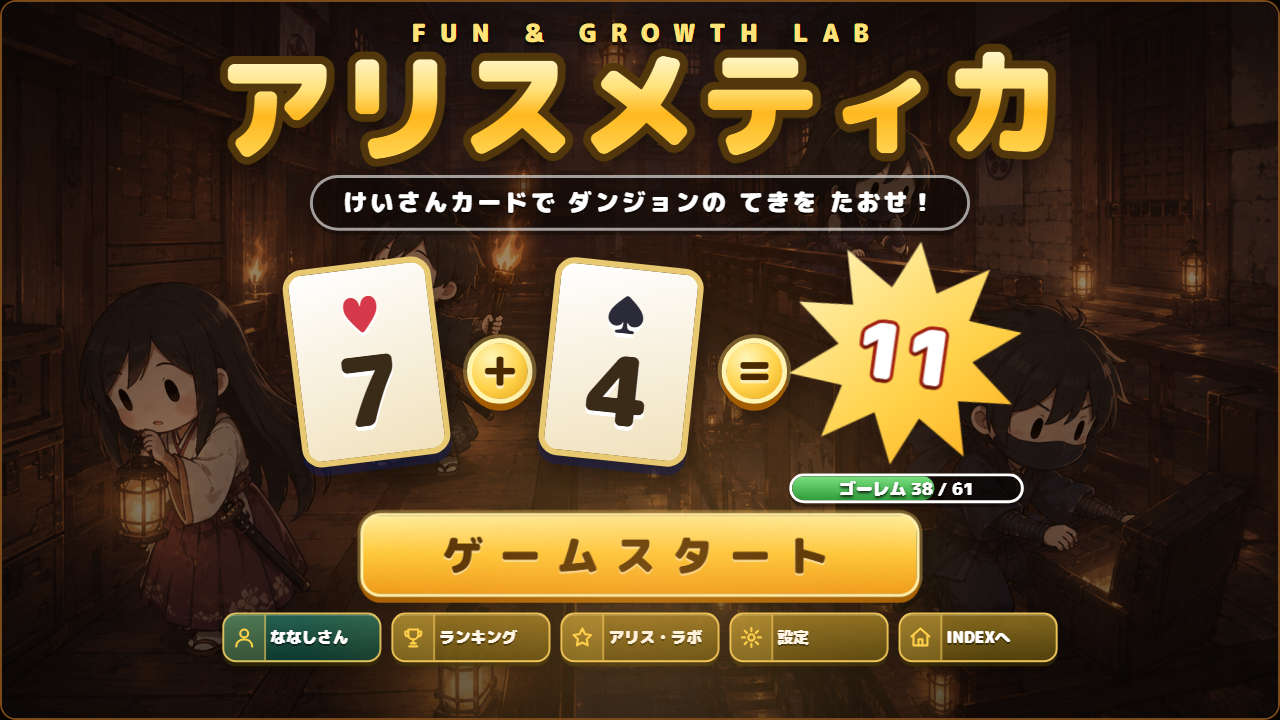
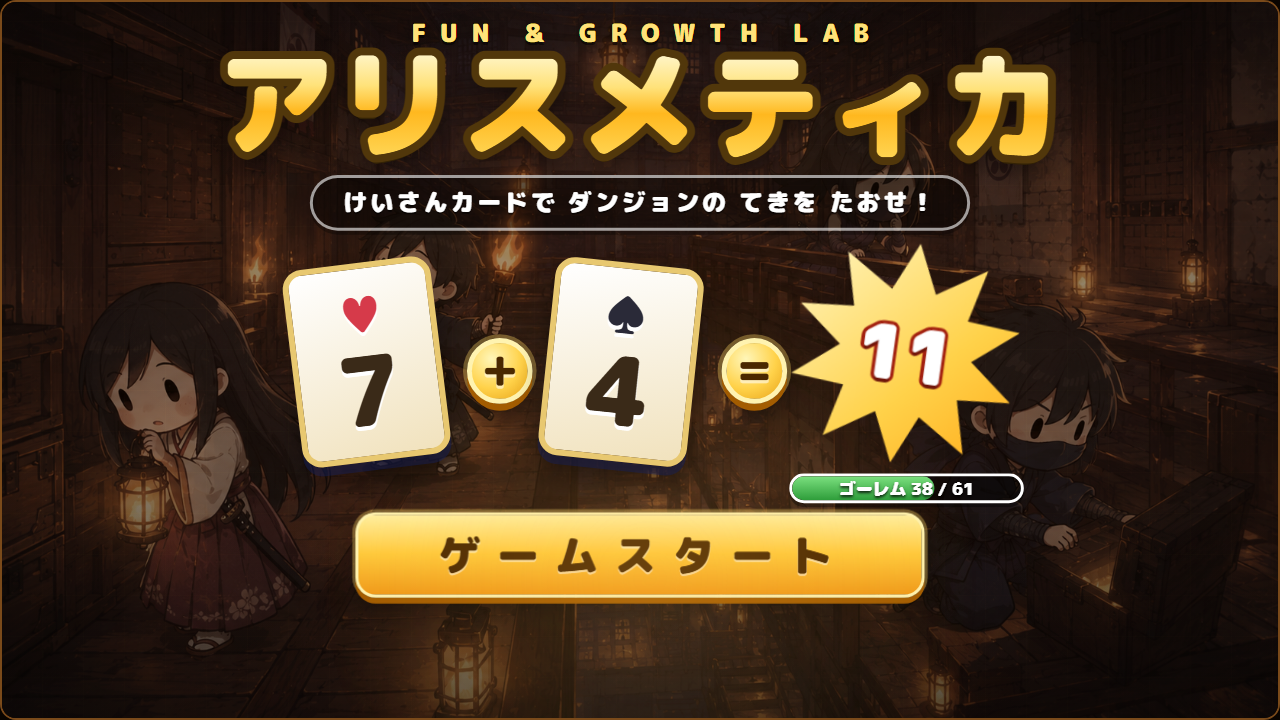
INDEXのサムネ: 下の小さなボタン列を消して、題名と主役の絵を見やすく

diff --git a/index.html b/index.html
@@ -27,7 +27,7 @@
     <meta name="apple-mobile-web-app-title" content="FG Lab">
     <meta property="og:title" content="Fun & Growth Lab | 学び×遊びの実験室">
     <meta property="og:description" content="登録不要・広告なし！算数や社会を楽しく学べる無料ゲームサイト。">
-    <meta property="og:image" content="https://fun-growth-lab.github.io/math-games/images/Math_Braves_addition.png?v=20261120">
+    <meta property="og:image" content="https://fun-growth-lab.github.io/math-games/images/Math_Braves_addition.png?v=20261130">
     <meta name="twitter:card" content="summary_large_image">
 
     <link rel="preconnect" href="https://fonts.googleapis.com">
@@ -1036,7 +1036,7 @@
                 <span class="mini-tag" data-i18n="tag_gr1">1年生〜</span>
             </div>
             <a href="ColorCross/ColorCross.html" class="media-container">
-                <img src="images/ColorCross.png?v=20261120" alt="カラークロス">
+                <img src="images/ColorCross.png?v=20261130" alt="カラークロス">
             </a>
             <div class="start-btn-area">
                 <a href="ColorCross/ColorCross.html" class="play-btn">ゲームスタート ▶</a>
@@ -1061,7 +1061,7 @@
                 <span class="mini-tag" data-i18n="tag_gr1">1年生〜</span>
             </div>
             <a href="TriSquare/TriSquare.html" class="media-container">
-                <img src="images/TriSquare.png?v=20261120" alt="トライスクエア">
+                <img src="images/TriSquare.png?v=20261130" alt="トライスクエア">
             </a>
             <div class="start-btn-area">
                 <a href="TriSquare/TriSquare.html" class="play-btn">ゲームスタート ▶</a>
@@ -1089,7 +1089,7 @@
                 <span class="mini-tag" data-i18n="tag_gr3">3年生〜</span>
             </div>
             <a href="HitofudeMeikyuu/index.html" class="media-container">
-                <img src="images/HitofudeMeikyuu.png?v=20261120" alt="一筆迷宮">
+                <img src="images/HitofudeMeikyuu.png?v=20261130" alt="一筆迷宮">
             </a>
             <div class="start-btn-area">
                 <a href="HitofudeMeikyuu/index.html" class="play-btn">ゲームスタート ▶</a>
@@ -1112,7 +1112,7 @@
                 <span class="mini-tag" data-i18n="tag_indev">開発中</span>
             </div>
             <a href="Iriscraft/index.html" class="media-container">
-                <img src="images/Iriscraft.png?v=20261120" alt="Iriscraft">
+                <img src="images/Iriscraft.png?v=20261130" alt="Iriscraft">
             </a>
             <div class="start-btn-area">
                 <a href="Iriscraft/index.html" class="play-btn">ゲームスタート ▶</a>
@@ -1141,7 +1141,7 @@
                 <span class="mini-tag" data-i18n="tag_gr2">2年生〜</span>
             </div>
             <a href="Arithmetica/index.html" class="media-container">
-                <img src="images/Arithmetica.png?v=20261120" alt="アリスメティカ">
+                <img src="images/Arithmetica.png?v=20261130" alt="アリスメティカ">
             </a>
             <div class="start-btn-area">
                 <a href="Arithmetica/index.html" class="play-btn">ゲームスタート ▶</a>
@@ -1168,7 +1168,7 @@
                 <span class="mini-tag" data-i18n="tag_gr2">2年生〜</span>
             </div>
             <a href="PitattoKuku/index.html" class="media-container">
-                <img src="images/PitattoKuku.png?v=20261120" alt="ピタッと九九">
+                <img src="images/PitattoKuku.png?v=20261130" alt="ピタッと九九">
             </a>
             <div class="start-btn-area">
                 <a href="PitattoKuku/index.html" class="play-btn">ゲームスタート ▶</a>
@@ -1196,7 +1196,7 @@
                 <span class="mini-tag" data-i18n="tag_gr4">4年生〜</span>
             </div>
             <a href="BlackjackArcana/index.html" class="media-container">
-                <img src="images/BlackjackArcana.png?v=20261120" alt="ブラックジャック・アルカナ">
+                <img src="images/BlackjackArcana.png?v=20261130" alt="ブラックジャック・アルカナ">
             </a>
             <div class="start-btn-area">
                 <a href="BlackjackArcana/index.html" class="play-btn">ゲームスタート ▶</a>
@@ -1224,7 +1224,7 @@
                 <span class="mini-tag" data-i18n="tag_gr1">1年生〜</span>
             </div>
             <a href="Math_Braves_addition/Math_Braves_addition.html" class="media-container">
-                <img src="images/Math_Braves_addition.png?v=20261120" alt="たしざんカードバトル">
+                <img src="images/Math_Braves_addition.png?v=20261130" alt="たしざんカードバトル">
             </a>
             <div class="start-btn-area">
                 <a href="Math_Braves_addition/Math_Braves_addition.html" class="play-btn">ゲームスタート ▶</a>
@@ -1252,7 +1252,7 @@
                 <span class="mini-tag" data-i18n="tag_gr1">1年生〜</span>
             </div>
             <a href="Math_Braves_subtraction/Math_Braves_subtraction.html" class="media-container">
-                <img src="images/Math_Braves_subtraction.png?v=20261120" alt="ひきざんカードバトル">
+                <img src="images/Math_Braves_subtraction.png?v=20261130" alt="ひきざんカードバトル">
             </a>
             <div class="start-btn-area">
                 <a href="Math_Braves_subtraction/Math_Braves_subtraction.html" class="play-btn">ゲームスタート ▶</a>
@@ -1280,7 +1280,7 @@
                 <span class="mini-tag" data-i18n="tag_gr2">2年生〜</span>
             </div>
             <a href="Math_Braves_multiplication/Math_Braves_multiplication.html" class="media-container">
-                <img src="images/Math_Braves_multiplication.png?v=20261120" alt="かけざんカードバトル">
+                <img src="images/Math_Braves_multiplication.png?v=20261130" alt="かけざんカードバトル">
             </a>
             <div class="start-btn-area">
                 <a href="Math_Braves_multiplication/Math_Braves_multiplication.html" class="play-btn">ゲームスタート ▶</a>
@@ -1306,7 +1306,7 @@
                 <span class="mini-tag" data-i18n="tag_gr2">2年生〜</span>
             </div>
             <a href="Math_Braves_multiplication2/Math_Braves_multiplication2.html" class="media-container">
-                <img src="images/Math_Braves_multiplication2.png?v=20261120" alt="かけざんカードバトル２">
+                <img src="images/Math_Braves_multiplication2.png?v=20261130" alt="かけざんカードバトル２">
             </a>
             <div class="start-btn-area">
                 <a href="Math_Braves_multiplication2/Math_Braves_multiplication2.html" class="play-btn">ゲームスタート ▶</a>
@@ -1331,7 +1331,7 @@
                 <span class="mini-tag" data-i18n="tag_card">カード</span>
                 <span class="mini-tag" data-i18n="tag_gr3">3年生〜</span>            </div>
             <a href="Math_Braves_division/Math_Braves_division.html" class="media-container">
-                <img src="images/Math_Braves_division.png?v=20261120" alt="わりざんカードバトル">
+                <img src="images/Math_Braves_division.png?v=20261130" alt="わりざんカードバトル">
             </a>
             <div class="start-btn-area">
                 <a href="Math_Braves_division/Math_Braves_division.html" class="play-btn">ゲームスタート ▶</a>
@@ -1357,7 +1357,7 @@
                 <span class="mini-tag" data-i18n="tag_card">カード</span>
                 <span class="mini-tag" data-i18n="tag_gr3">3年生〜</span>            </div>
             <a href="Math_Braves_fraction/Math_Braves_fraction.html" class="media-container">
-                <img src="images/Math_Braves_fraction.png?v=20261120" alt="ぶんすうスロット">
+                <img src="images/Math_Braves_fraction.png?v=20261130" alt="ぶんすうスロット">
             </a>
             <div class="start-btn-area">
                 <a href="Math_Braves_fraction/Math_Braves_fraction.html" class="play-btn">ゲームスタート ▶</a>
@@ -1384,7 +1384,7 @@
                 <span class="mini-tag" data-i18n="tag_gr3">3年生〜</span>
             </div>
             <a href="Math_Braves_decimal/Math_Braves_decimal.html" class="media-container">
-                <img src="images/Math_Braves_decimal.png?v=20261120" alt="小数の足し算">
+                <img src="images/Math_Braves_decimal.png?v=20261130" alt="小数の足し算">
             </a>
             <div class="start-btn-area">
                 <a href="Math_Braves_decimal/Math_Braves_decimal.html" class="play-btn">ゲームスタート ▶</a>
@@ -1410,7 +1410,7 @@
                 <span class="mini-tag" data-i18n="tag_puzzle">パズル</span>
                 <span class="mini-tag" data-i18n="tag_gr1">1年生〜</span>            </div>
             <a href="number-brick/number-brick.html" class="media-container">
-                <img src="images/number-brick.png?v=20261120" alt="ナンバーブリック">
+                <img src="images/number-brick.png?v=20261130" alt="ナンバーブリック">
             </a>
             <div class="start-btn-area">
                 <a href="number-brick/number-brick.html" class="play-btn">ゲームスタート ▶</a>
@@ -1438,7 +1438,7 @@
                 <span class="mini-tag" data-i18n="tag_gr1">1年生〜</span>
             </div>
             <a href="Math_sugoroku_add/Math_sugoroku_add.html" class="media-container">
-                <img src="images/Math_sugoroku_add.png?v=20261120" alt="たしざんすごろく">
+                <img src="images/Math_sugoroku_add.png?v=20261130" alt="たしざんすごろく">
             </a>
             <div class="start-btn-area">
                 <a href="Math_sugoroku_add/Math_sugoroku_add.html" class="play-btn">ゲームスタート ▶</a>
@@ -1466,7 +1466,7 @@
                 <span class="mini-tag" data-i18n="tag_gr1">1年生〜</span>
             </div>
             <a href="Modulo_Blits_addition/Modulo_Blits_addition.html" class="media-container">
-                <img src="images/Modulo_Blits_addition.png?v=20261120" alt="モジュロブリッツ">
+                <img src="images/Modulo_Blits_addition.png?v=20261130" alt="モジュロブリッツ">
             </a>
             <div class="start-btn-area">
                 <a href="Modulo_Blits_addition/Modulo_Blits_addition.html" class="play-btn">ゲームスタート ▶</a>
@@ -1493,7 +1493,7 @@
                 <span class="mini-tag" data-i18n="tag_gr1">1年生〜</span>
             </div>
             <a href="Tally_Blitz_addition/Tally_Blitz_addition.html" class="media-container">
-                <img src="images/Tally_Blitz_addition.png?v=20261120" alt="タリーブリッツ">
+                <img src="images/Tally_Blitz_addition.png?v=20261130" alt="タリーブリッツ">
             </a>
             <div class="start-btn-area">
                 <a href="Tally_Blitz_addition/Tally_Blitz_addition.html" class="play-btn">ゲームスタート ▶</a>
@@ -1519,7 +1519,7 @@
                 <span class="mini-tag" data-i18n="tag_puzzle">パズル</span>
                 <span class="mini-tag" data-i18n="tag_gr1">1年生〜</span>            </div>
             <a href="tasu-ten/tasu-ten.html" class="media-container">
-                <img src="images/tasu-ten.png?v=20261120" alt="たすてん">
+                <img src="images/tasu-ten.png?v=20261130" alt="たすてん">
             </a>
             <div class="start-btn-area">
                 <a href="tasu-ten/tasu-ten.html" class="play-btn">ゲームスタート ▶</a>
@@ -1545,7 +1545,7 @@
                 <span class="mini-tag" data-i18n="tag_dungeon">ダンジョン</span>
                 <span class="mini-tag" data-i18n="tag_gr3">3年生〜</span>            </div>
             <a href="division_mine/division_mine.html" class="media-container">
-                <img src="images/division_mine.png?v=20261120" alt="わりざん鉱山">
+                <img src="images/division_mine.png?v=20261130" alt="わりざん鉱山">
             </a>
             <div class="start-btn-area">
                 <a href="division_mine/division_mine.html" class="play-btn">ゲームスタート ▶</a>
@@ -1571,7 +1571,7 @@
                 <span class="mini-tag" data-i18n="tag_dungeon">ダンジョン</span>
                 <span class="mini-tag" data-i18n="tag_gr2">2年生〜</span>            </div>
             <a href="kakezan_dungeon/kakezan_dungeon.html" class="media-container">
-                <img src="images/kakezan_dungeon.png?v=20261120" alt="かけざんダンジョン">
+                <img src="images/kakezan_dungeon.png?v=20261130" alt="かけざんダンジョン">
             </a>
             <div class="start-btn-area">
                 <a href="kakezan_dungeon/kakezan_dungeon.html" class="play-btn">ゲームスタート ▶</a>
@@ -1624,7 +1624,7 @@
                 <span class="mini-tag" data-i18n="tag_quiz">クイズ</span>
                 <span class="mini-tag" data-i18n="tag_gr4">4年生〜</span>            </div>
             <a href="Japan_map/Japan_map.html" class="media-container">
-                <img src="images/Japan_map.png?v=20261120" alt="日本地図クイズ">
+                <img src="images/Japan_map.png?v=20261130" alt="日本地図クイズ">
             </a>
             <div class="start-btn-area">
                 <a href="Japan_map/Japan_map.html" class="play-btn">ゲームスタート ▶</a>
@@ -1653,7 +1653,7 @@
                 <span class="mini-tag" data-i18n="tag_gr3">3年生〜</span>
             </div>
             <a href="Treasure_Craft/Treasure_Craft.html" class="media-container">
-                <img src="images/Treasure_Craft.png?v=20261120" alt="トレジャー・クラフト">
+                <img src="images/Treasure_Craft.png?v=20261130" alt="トレジャー・クラフト">
             </a>
             <div class="start-btn-area">
                 <a href="Treasure_Craft/Treasure_Craft.html" class="play-btn">ゲームスタート ▶</a>
